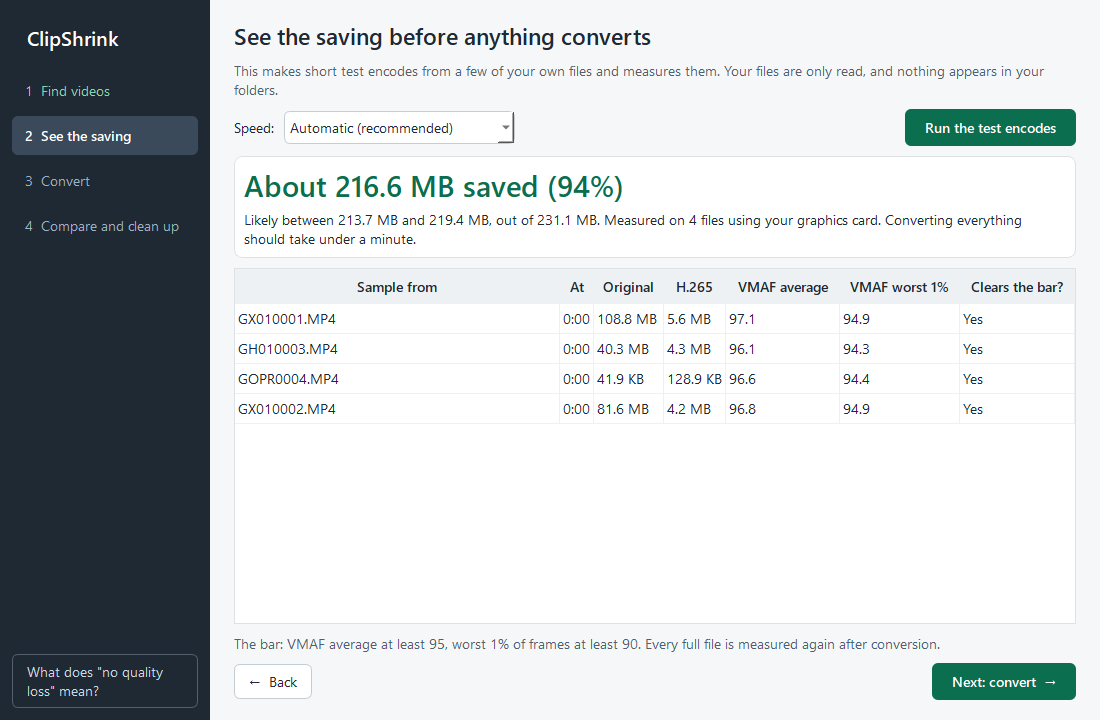
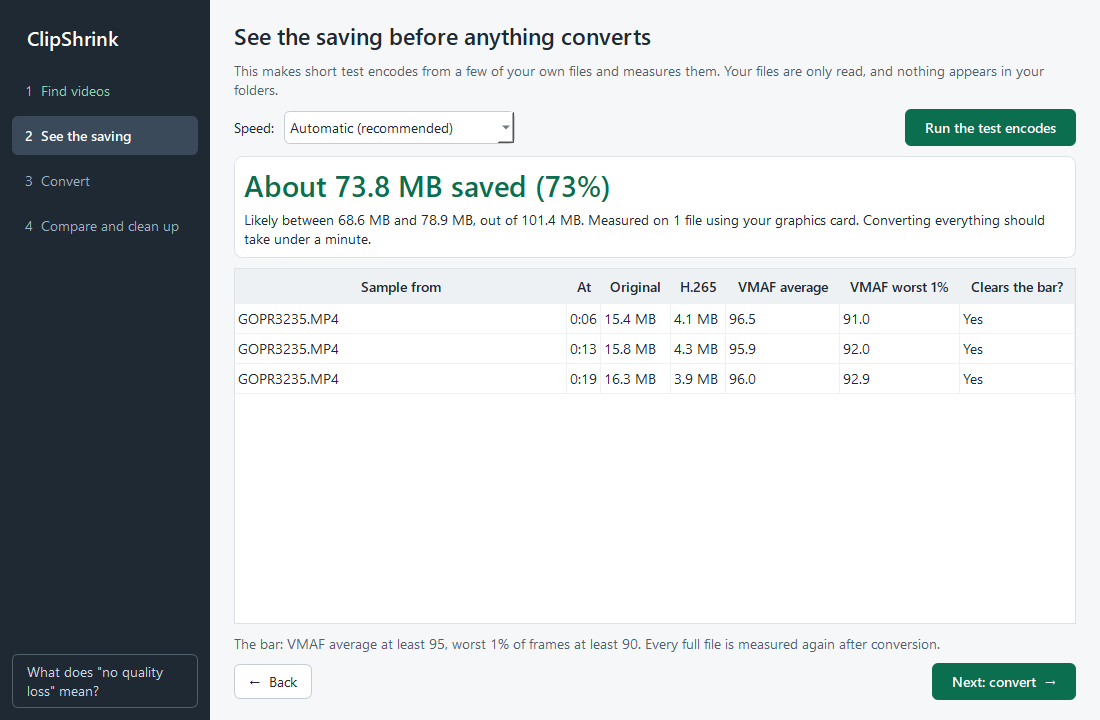
Describe ClipShrink as a general disk space tool; use real screenshots
Any H.264 video is in scope, with GoPro files as a well-supported case,
and Google Drive is one place videos may live rather than the purpose.
Screenshots now show real footage, and README limits say which file
types have had full conversion tests.

diff --git a/README.md b/README.md
@@ -4,13 +4,13 @@
 [![Latest release](https://img.shields.io/github/v/release/tophe323/ClipShrink)](https://github.com/tophe323/ClipShrink/releases/latest)
 [![License: GPL v3](https://img.shields.io/badge/License-GPLv3-blue.svg)](LICENSE)
 
-**Shrink your GoPro videos to free up Google Drive space, and prove each one still looks the same.**
+**Shrink your videos to free up disk space, without visible quality loss, and prove each one still looks the same.**
 
-ClipShrink is a Windows app that batch converts H.264 videos to H.265. Every conversion is compared with its original, frame by frame, before it is accepted. If a file doesn't pass or isn't smaller, you keep the original and the app tells you.
+ClipShrink is a Windows app that batch converts H.264 videos to H.265. It works on any H.264 video and takes special care of GoPro files, keeping their telemetry. Every conversion is compared with its original, frame by frame, before it is accepted. If a file doesn't pass or isn't smaller, you keep the original and the app tells you.
 
 ![The Compare and clean up page, listing verified conversions with sizes and quality scores](docs/images/4-compare-and-clean-up.png)
 
-*Screenshots in this README use generated test patterns, which shrink far more than real footage.*
+*Screenshots show real GoPro footage. The find and compare pages show one real 34-clip batch, redrawn from its saved results. The saving and convert pages show a run on one clip from it.*
 
 ## Download
 
@@ -22,7 +22,7 @@ The installer isn't code-signed yet, so Windows may show "Windows protected your
 
 ## Real results
 
-On one batch of 34 real GoPro clips, using an NVIDIA graphics card:
+On one batch of 34 real 1080p GoPro clips, using an NVIDIA graphics card:
 
 | | |
 |---|---|
@@ -55,15 +55,15 @@ Each conversion is saved beside its original with `_H265` added to the name. You
 ### 4. Compare and clean up
 Play any original beside its conversion, in sync, with frame stepping and a 100% zoom. Left is the original and right is the conversion.
 
-![Side by side playback of a test pattern](docs/images/side-by-side.jpg)
+![Side by side playback of a snowy mountain view, identical on both sides](docs/images/side-by-side.jpg)
 
 When you're happy, you can send verified originals to the Recycle Bin, then remove `_H265` from the new names. Both steps are optional and ask you to confirm.
 
-> **Google Drive keeps counting deleted files against your storage until they leave its trash.** To get the space back, also empty the trash at [drive.google.com](https://drive.google.com), or wait for Google to remove them after 30 days.
+> **Videos in Google Drive?** It keeps counting deleted files against your storage until they leave its trash. To get the space back, also empty the trash at [drive.google.com](https://drive.google.com), or wait for Google to remove them after 30 days.
 
 ## What "no quality loss" means here
 
-Truly lossless H.265, where every pixel stays identical, usually makes files **larger** than GoPro originals. So ClipShrink uses a measured definition instead.
+Truly lossless H.265, where every pixel stays identical, usually makes files **larger** than the originals. So ClipShrink uses a measured definition instead.
 
 It scores every frame with [VMAF](https://github.com/Netflix/vmaf), Netflix's open measure of how video looks to people, from 0 to 100. A conversion is accepted only if:
 
@@ -74,7 +74,7 @@ That's a measurement, not a mathematical guarantee. Use the side by side player 
 
 ## What it keeps
 
-- **Sound, GoPro telemetry, timecode and camera info:** copied byte for byte, and checked afterwards.
+- **Sound, GoPro telemetry, timecode and camera info, where present:** copied byte for byte, and checked afterwards.
 - **Resolution, frame count, frame rate and duration:** checked against the original.
 - **Capture dates:** both the date inside the file and the file's created and modified dates.
 - **Your originals:** only read during conversion. Deleting is a separate step, offered only for verified files, and goes to the Recycle Bin.
@@ -82,6 +82,8 @@ That's a measurement, not a mathematical guarantee. Use the side by side player 
 ## Limitations
 
 - **Windows only**, with one file converted at a time.
+- **File types:** full conversions have been tested on MP4 files. MOV, MKV and others are found by the scan, but conversions of them haven't been tested yet.
+- **Real-world testing so far:** one person's GoPro footage, plus generated test clips.
 - **Speed:** NVIDIA graphics cards are used automatically and are much faster. Other PCs use the processor.
 - **Telemetry:** tested on generated tracks in GoPro's format and on a HERO3-era clip, which has no telemetry track. It hasn't yet been tested on a real HERO5-or-later file with GPS data. Check a clip in your own telemetry tool before deleting its original.
 - **Google Drive for desktop:** the Recycle Bin hasn't been tested on a Drive-mounted `G:` drive. Try one small file first, and cancel if Windows warns about permanent deletion.
@@ -103,7 +105,7 @@ setup_dev.bat
 check.bat
 ```
 
-`check.bat` runs the full test suite, about 10 minutes, and needs a real GoPro clip of your own in `tests/real_clip/`. Tests prove the quality bar on every conversion, using their own measurement code rather than the app's. See [CONTRIBUTING.md](CONTRIBUTING.md) and the [history of check runs](docs/test-history.md).
+`check.bat` runs the full test suite, about 10 minutes, and needs a real GoPro clip in `tests/real_clip/`. Tests prove the quality bar on every conversion, using their own measurement code rather than the app's. See [CONTRIBUTING.md](CONTRIBUTING.md) and the [history of check runs](docs/test-history.md).
 
 ## Licence
 
